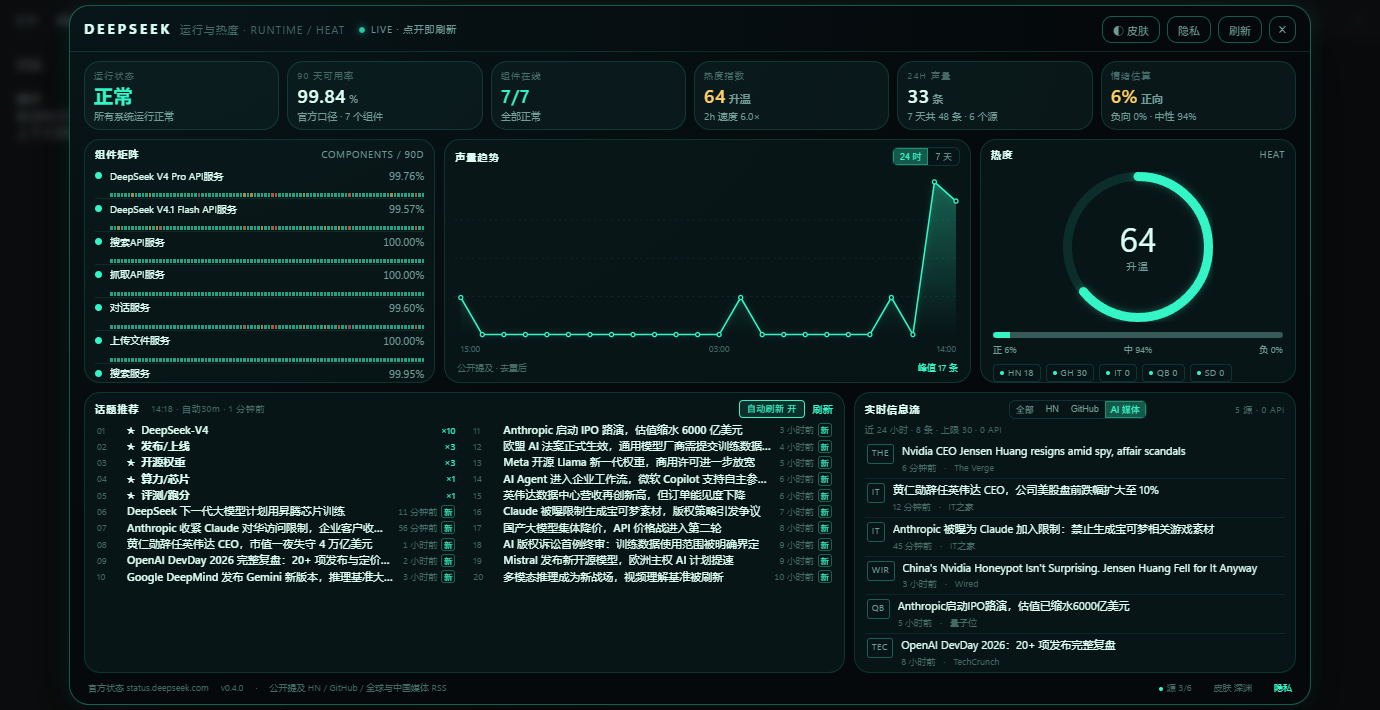
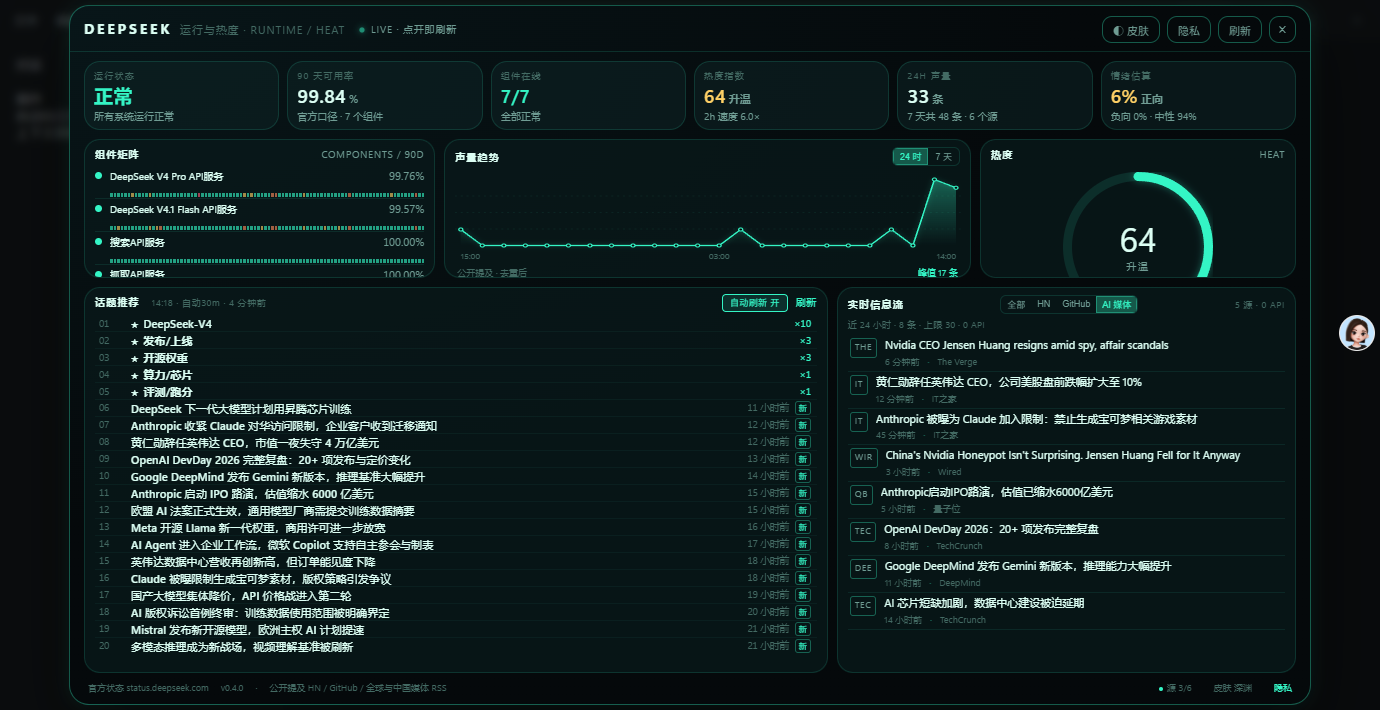
fix: compact single-column topic list, remove wasted two-column space

diff --git a/client.js b/client.js
@@ -616,13 +616,13 @@
     '.kpi[data-tone="warn"] .kpi-value{color:var(--h-warn)}',
     '.kpi[data-tone="bad"] .kpi-value{color:var(--h-bad)}',
     '.hud-body{position:relative;z-index:2;flex:1;min-height:0;display:flex;flex-direction:column;gap:12px;padding:0 20px 12px}',
-    '.hud-main{display:grid;grid-template-columns:1fr 1.5fr .9fr;gap:12px;flex:.97;min-height:0}',
-    '.hud-bottom{display:grid;grid-template-columns:1.72fr 1fr;gap:12px;flex:1.12;min-height:0}',
+    '.hud-main{display:grid;grid-template-columns:1fr 1.5fr .9fr;gap:10px;flex:.58;min-height:0}',
+    '.hud-bottom{display:grid;grid-template-columns:1.62fr 1fr;gap:10px;flex:1.62;min-height:0}',
     '.p{position:relative;display:flex;flex-direction:column;min-width:0;min-height:0;border:1px solid var(--h-line);border-radius:var(--h-radius);background:var(--h-panel);overflow:hidden}',
     '.p-head{display:flex;align-items:center;justify-content:space-between;gap:8px;padding:8px 12px 4px;font-size:10px;letter-spacing:.06em;text-transform:uppercase;color:var(--h-dim)}',
     '.p-head b{font-weight:600;color:var(--h-text);letter-spacing:.12em}',
     '.p-head .hud-link{font-size:10px;letter-spacing:0;text-transform:none;color:var(--h-accent);cursor:pointer}',
-    '.p-body{flex:1;min-height:0;overflow:auto;padding:0 12px 8px}',
+    '.p-body{flex:1;min-height:0;overflow:auto;padding:0 10px 3px}',
     '.p-body::-webkit-scrollbar{width:6px}.p-body::-webkit-scrollbar-thumb{background:var(--h-line2);border-radius:3px}',
     '.comp-row{display:grid;grid-template-columns:7px 1fr auto;gap:8px;align-items:center;padding:3px 0 2px;border-bottom:1px solid color-mix(in srgb,var(--h-line) 70%,transparent)}',
     '.comp-row:last-child{border-bottom:0}',
@@ -659,17 +659,22 @@
     '.chip i{width:4px;height:4px;border-radius:50%;background:var(--h-ok)}',
     '.chip[data-off="true"] i{background:var(--h-bad)}',
     '.topic{display:grid;grid-template-columns:22px 1fr auto;gap:8px;align-items:center;padding:0 2px;border-bottom:0;cursor:pointer}',
-    '.topic-grid{display:grid;grid-template-columns:1fr 1fr;grid-auto-flow:column;grid-template-rows:repeat(10,minmax(0,auto));column-gap:14px;row-gap:0;align-content:start}',
-    '.topic-grid .topic{padding:1px 2px}',
-    '.topic-grid .topic-sample{display:none}',
-    '.topic-grid .topic-label{font-size:11px}',
-    '.topic-grid .topic-rank{font-size:9px}',
-    '.topic-grid .topic-time,.topic-grid .topic-count{font-size:9px}',
-    '.topic-grid .chip{display:none}',
-    '.topic-grid .topic-right{gap:3px;flex:0 0 auto}',
-    '.topic-grid .topic-new{font-size:8px;padding:0 2px}',
-    '.topic-grid .topic-right{gap:4px}',
-    '.topic-grid .chip{max-width:72px;overflow:hidden;text-overflow:ellipsis;white-space:nowrap}',
+    '.topic-list{display:flex;flex-direction:column;min-height:0}',
+    '.topic-list .topic{box-sizing:border-box;padding:0 6px 0 4px;border-bottom:1px solid color-mix(in srgb,var(--h-line) 35%,transparent);column-gap:10px;min-height:0;height:17px}',
+    '.topic-list .topic:last-child{border-bottom:0}',
+    '.topic-list .topic:hover{background:color-mix(in srgb,var(--h-accent) 8%,transparent)}',
+    '.topic-list .topic-sample{display:none}',
+    '.topic-list .topic-label{font-size:11px;line-height:17px;font-weight:500;letter-spacing:.01em}',
+    '.topic-list .topic:not(.topic-ai) .topic-label{font-weight:600}',
+    '.topic-list .topic-ai .topic-label{color:var(--h-text)}',
+    '.topic-list .topic-time{color:var(--h-mute);white-space:nowrap}',
+    '.topic-list .topic-rank{font-size:9.5px;width:16px;font-variant-numeric:tabular-nums;color:var(--h-mute)}',
+    '.topic-list .topic-time,.topic-list .topic-count{font-size:9.5px;font-variant-numeric:tabular-nums}',
+    '.topic-list .topic-right{gap:6px;flex:0 0 auto}',
+    '.topic-list .chip{display:none}',
+    '.topic-list .topic-new{font-size:8px;padding:0 3px;line-height:1.5}',
+    '.topic-list .topic-star{font-size:9px;margin-right:5px}',
+    '.topic-head{padding:6px 10px 3px !important}',
     '.topic:last-child{border-bottom:0}',
     '.topic:hover .topic-label{color:var(--h-accent)}',
     '.topic-rank{font-family:inherit;font-size:10px;color:var(--h-mute)}',
@@ -776,7 +781,7 @@
     '.topic-ai .topic-label{font-weight:500;font-size:11px}',
     '.topic-ai .topic-sample{color:var(--h-mute)}',
     '.ai-badge{display:inline-block;font-size:9px;letter-spacing:.08em;padding:1px 4px;border:1px solid var(--h-line2);border-radius:3px;color:var(--h-accent)}',
-    '@media (max-height:780px){.hud-top{padding:10px 14px 8px}.hud-kpis{padding:9px 14px;gap:8px}.kpi{padding:7px 9px 6px}.kpi-value{font-size:19px}.hud-body{padding:0 14px 8px;gap:9px}.hud-main{gap:9px}.hud-bottom{gap:9px}.comp-row{padding:2px 0 1px}.comp-name{font-size:10px}.comp-bars{height:4px}.comp-note{display:none}.p-head{padding:7px 10px 4px}.p-body{padding:0 10px 6px}.topic{padding:4px 2px}.feed-row{padding:4px 2px}.topic-note{display:block}}',
+    '@media (max-height:780px){.hud-top{padding:10px 14px 8px}.hud-kpis{padding:9px 14px;gap:8px}.kpi{padding:7px 9px 6px}.kpi-value{font-size:19px}.hud-body{padding:0 14px 8px;gap:9px}.hud-main{gap:9px}.hud-bottom{gap:9px}.comp-row{padding:2px 0 1px}.comp-name{font-size:10px}.comp-bars{height:4px}.comp-note{display:none}.p-head{padding:7px 10px 4px}.p-body{padding:0 10px 4px}.topic-list .topic{padding:0 6px 0 4px;height:17px}.feed-row{padding:3px 2px}.topic-note{display:block}}',
     '@media (max-width:900px){.hud-kpis{grid-template-columns:repeat(3,1fr)}.hud-main{grid-template-columns:1fr 1fr}.hud-main .p:last-child{display:none}.hud-bottom{grid-template-columns:1fr}}',
     '@media (prefers-reduced-motion: reduce){.hud *,.hud *:before,.hud *:after{animation:none!important;transition:none!important}.hud-backdrop,.skin-drawer{backdrop-filter:none}}',
   ].join('\n');
@@ -1833,7 +1838,7 @@
                         ));
                       }
                     }
-                    return rows.length ? h('div', { className: 'topic-grid' }, rows) : null;
+                    return rows.length ? h('div', { className: 'topic-list' }, rows) : null;
                   })(),
                   !aiLoading && displayItems.length < need ? h('div', { className: 'topic-note', style: { textAlign: 'left', padding: '4px 2px' } }, '仅 7 天内 · 今日新话题不足') : null,
                   !aiLoading && !aiData && !autoEnabled ? h('div', { className: 'topic-note', style: { textAlign: 'left', padding: '4px 2px' } }, '自动刷新关闭 · 点上方“刷新”搜索话题') : null,
